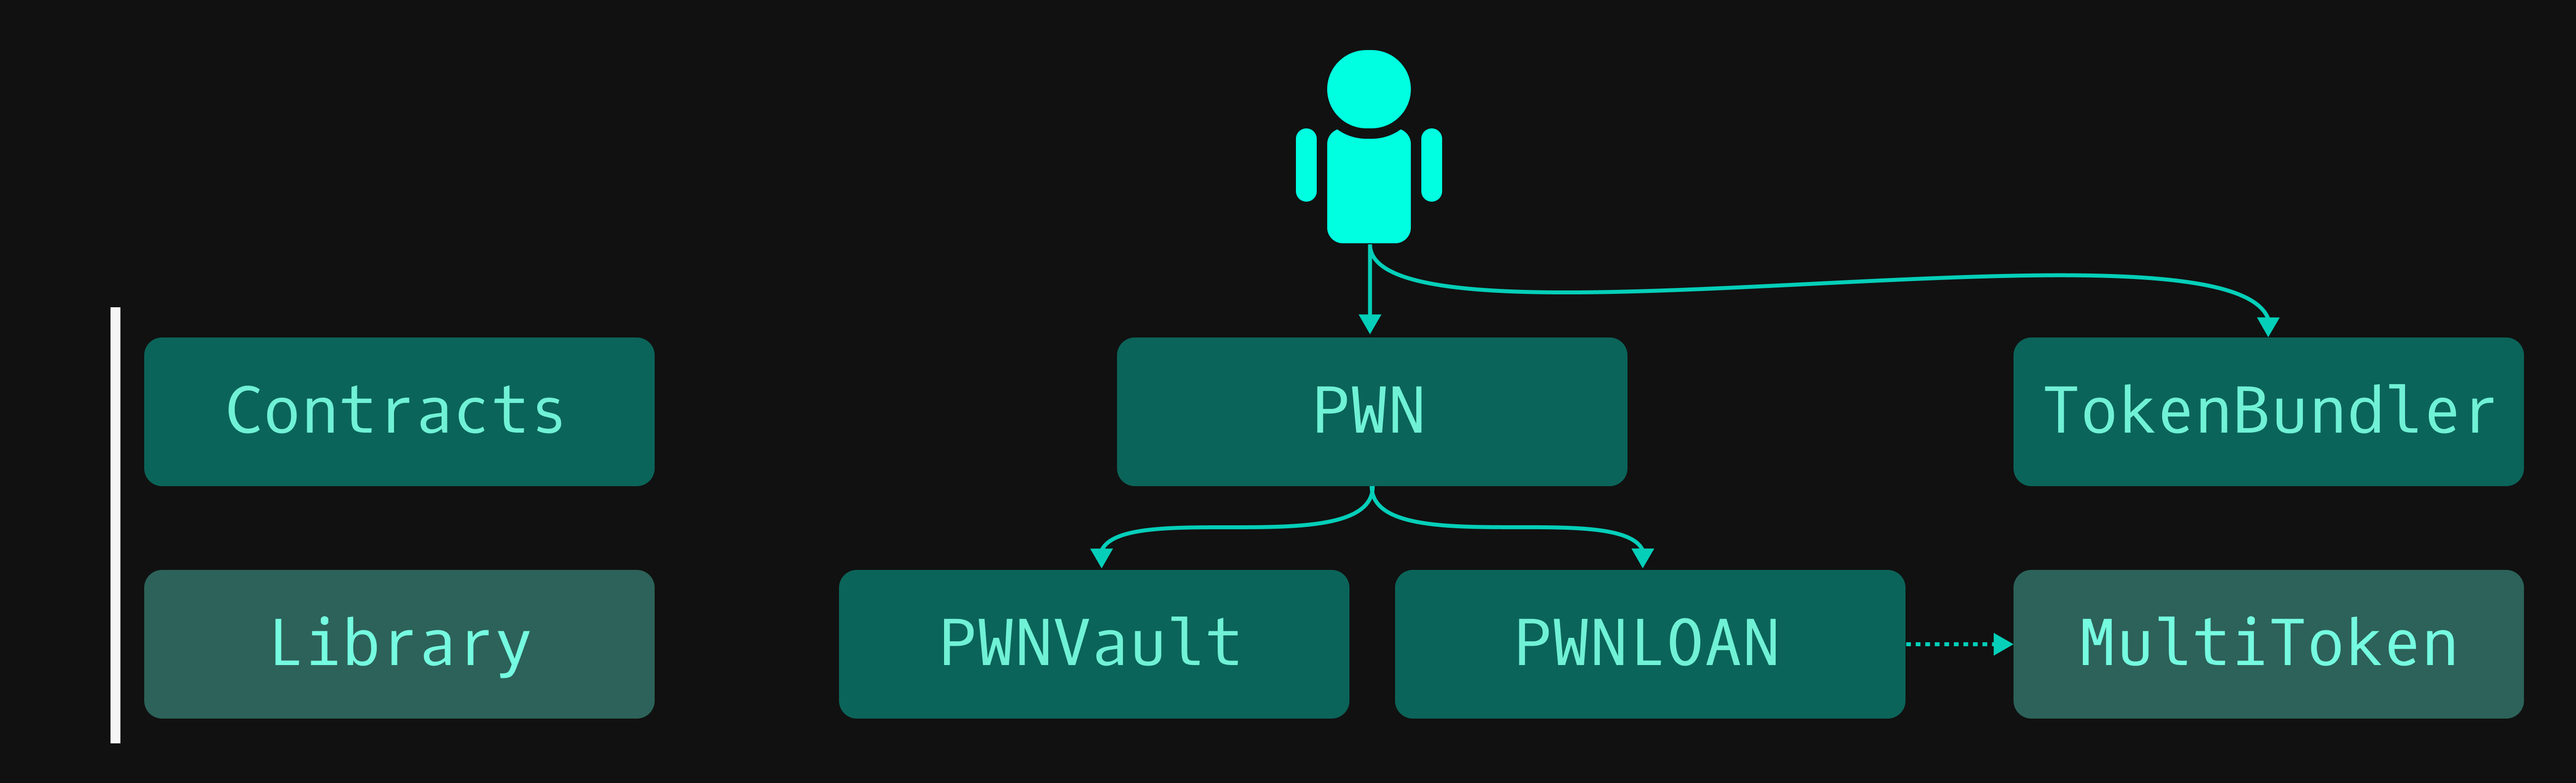
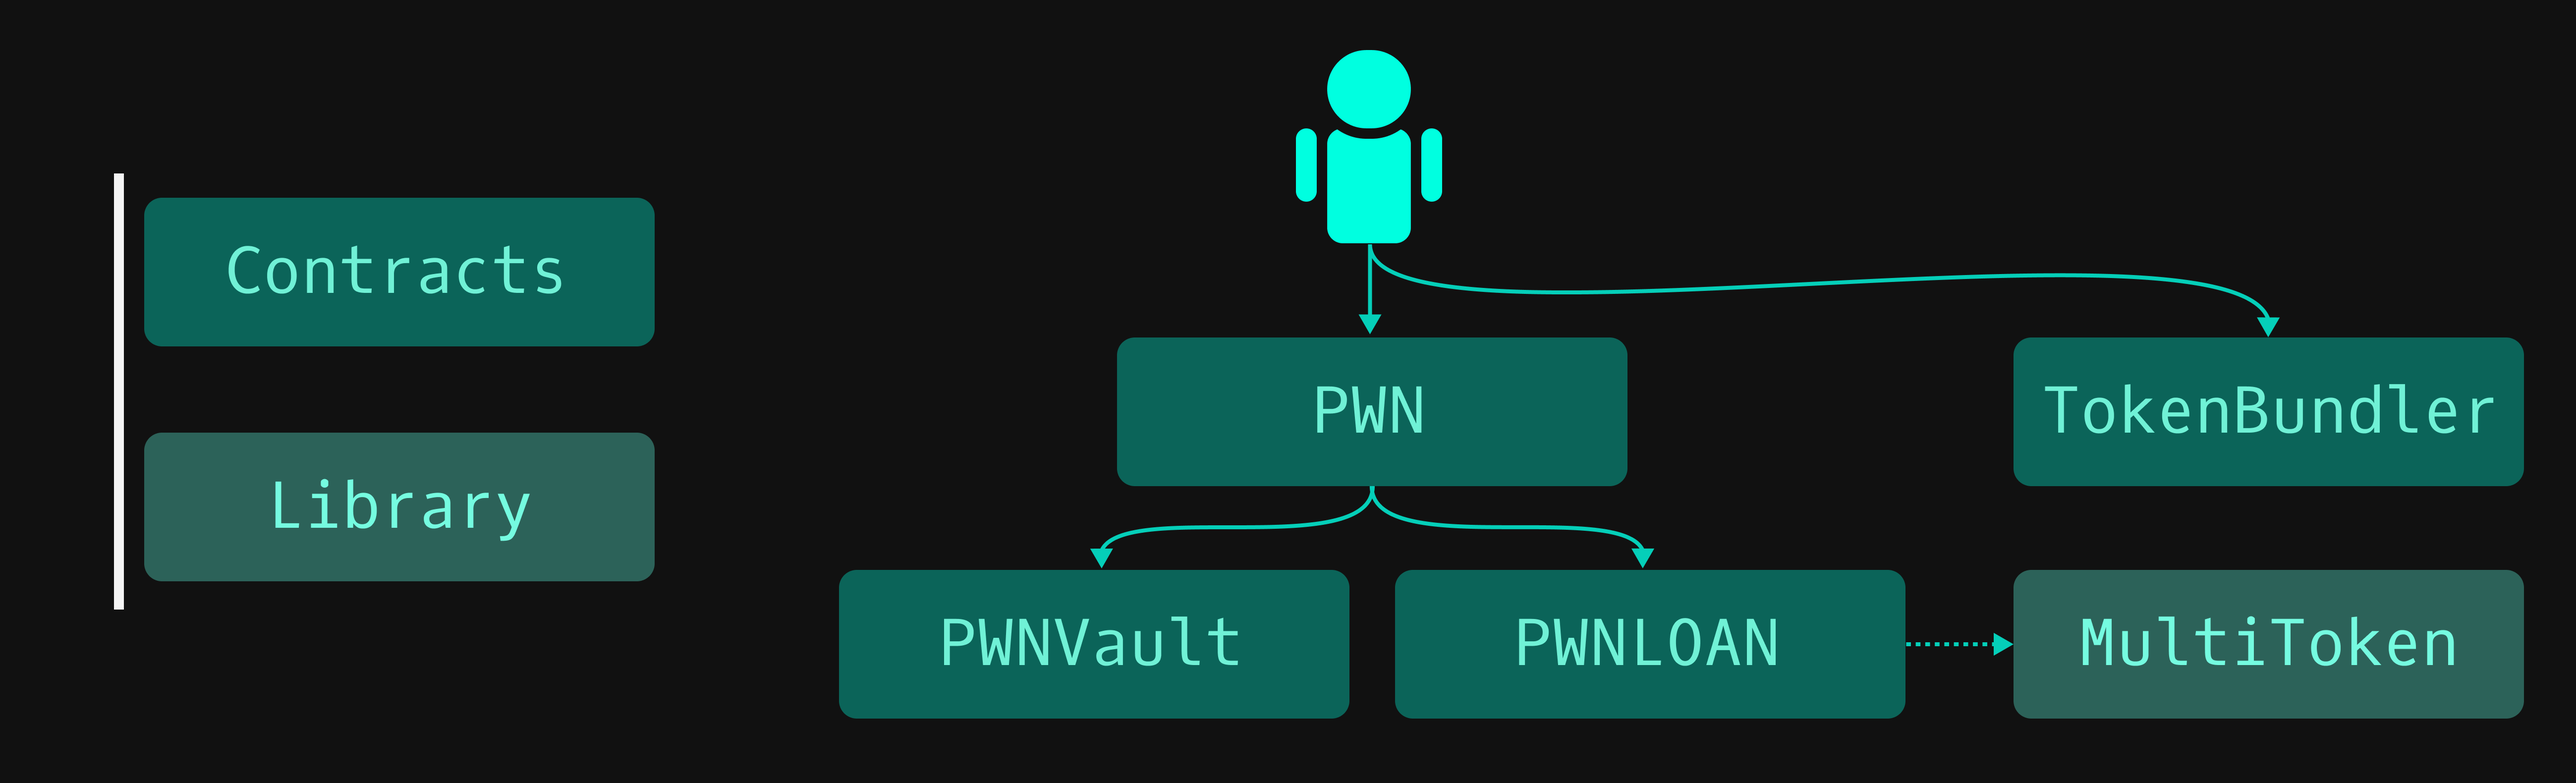
GITBOOK-202: No subject

Changed region(s): [[0.0312, 0.2171, 0.2805, 0.9304]]

diff --git a/deprecated/pwn-beta/architecture.md b/deprecated/pwn-beta/architecture.md
@@ -2,7 +2,7 @@
 
 Before we dive deep into the contracts let's have a look at the high-level architecture.
 
-<figure><img src="../../.gitbook/assets/Architecture.png" alt=""><figcaption><p>PWN smart contract architecture</p></figcaption></figure>
+<figure><img src="../../.gitbook/assets/Architecture (2).png" alt=""><figcaption><p>PWN smart contract architecture</p></figcaption></figure>
 
 {% tabs %}
 {% tab title="PWN" %}

diff --git a/smart-contracts/tools/pwn-safe/architecture.md b/smart-contracts/tools/pwn-safe/architecture.md
@@ -4,7 +4,7 @@ So how does PWN Safe work altogether? To explain, we'll first look at the Gnosis
 
 ## Safe Guard and Module
 
-<figure><img src="../../../.gitbook/assets/image.png" alt=""><figcaption></figcaption></figure>
+<figure><img src="../../../.gitbook/assets/image (1).png" alt=""><figcaption></figcaption></figure>
 
 As shown in the diagram above, the Safe wallet can be extended by a guard and a module.&#x20;
 

diff --git a/deprecated/pwn-beta/pwn-loan.md b/deprecated/pwn-beta/pwn-loan.md
@@ -33,7 +33,7 @@ The PWN LOAN token is a tokenized representation of a loan that can aquire diffe
 
 #### State diagram
 
-<figure><img src="../../.gitbook/assets/image (1).png" alt=""><figcaption><p>LOAN token life cycle diagram</p></figcaption></figure>
+<figure><img src="../../.gitbook/assets/image (2).png" alt=""><figcaption><p>LOAN token life cycle diagram</p></figcaption></figure>
 
 ### Loan token struct
 
